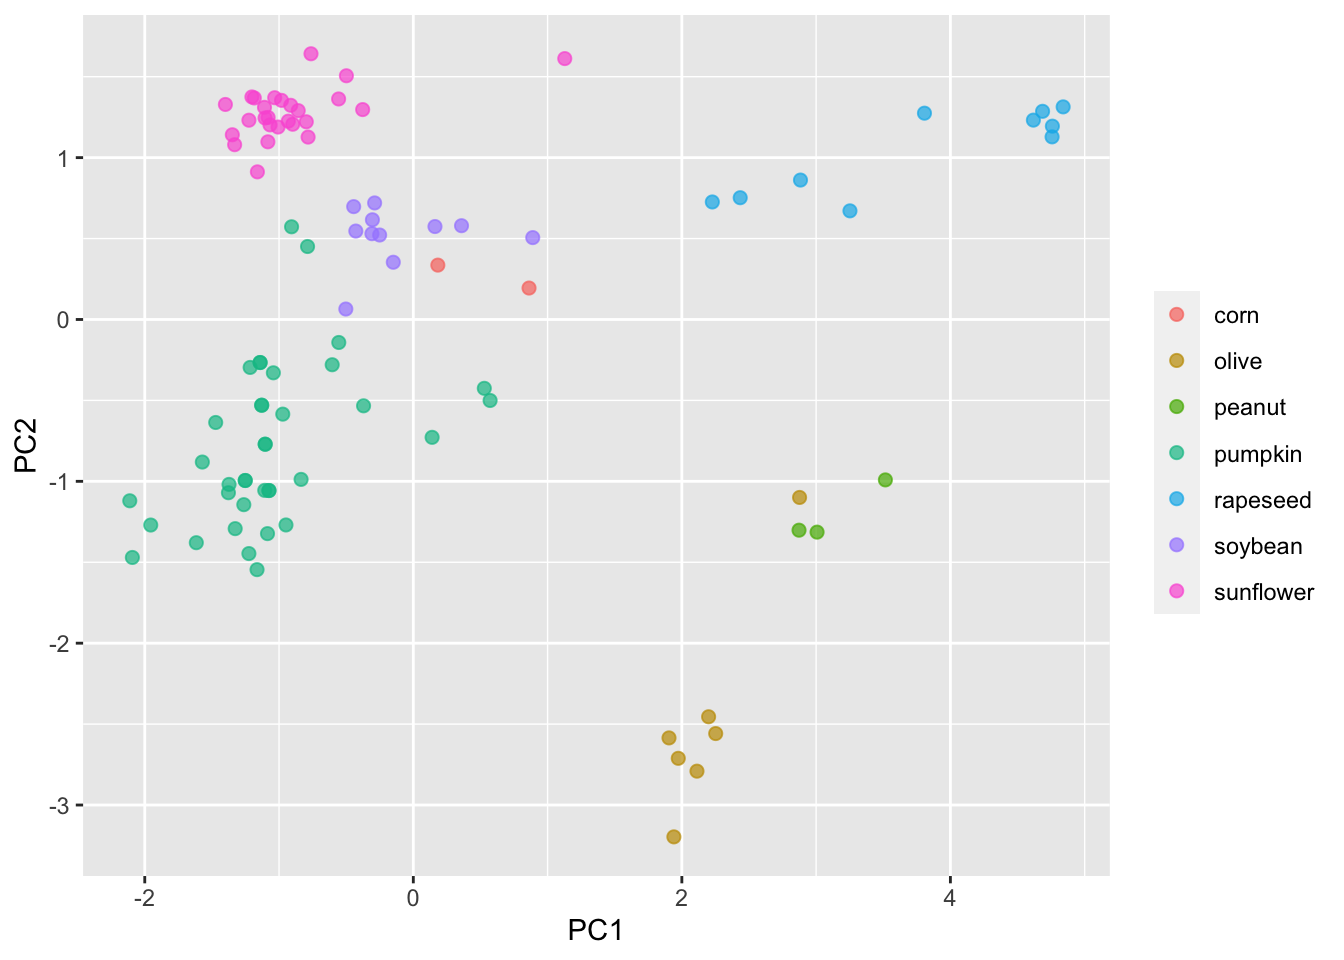
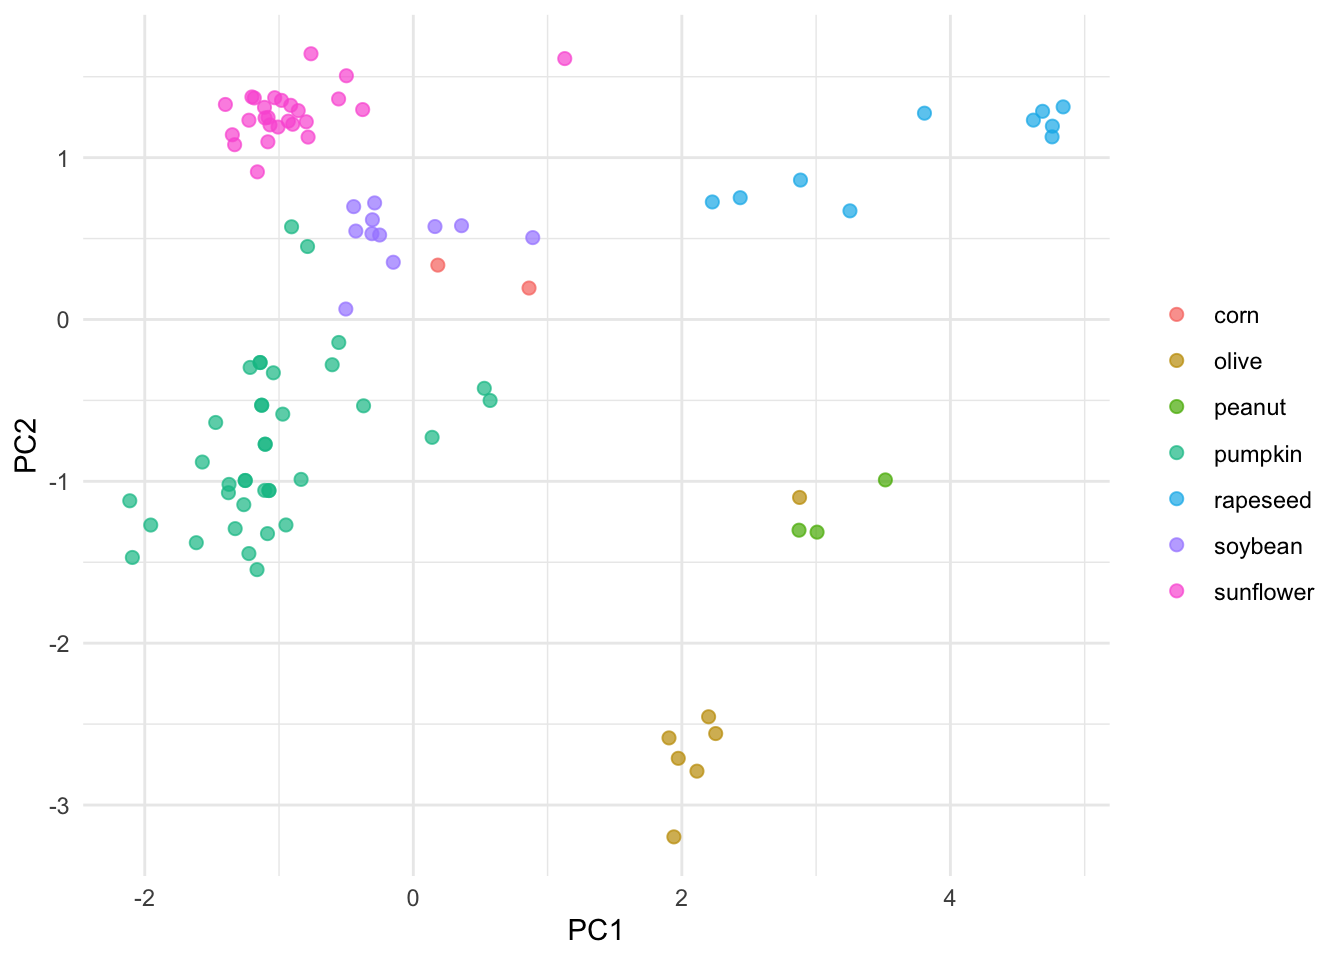
theme_minimal

diff --git a/public/2021-02-04-unsupervised-machine-learning/index.html b/public/2021-02-04-unsupervised-machine-learning/index.html
@@ -693,7 +693,7 @@
 
 <div class="article-header article-container featured-image-wrapper mt-4 mb-4" style="max-width: 720px; max-height: 425px;">
   <div style="position: relative">
-    <img src="../2021-02-04-unsupervised-machine-learning/featured_hud3f906394e33c42b903908d2e33c2bfb_229456_720x0_resize_q90_lanczos.jpg" alt="" class="featured-image">
+    <img src="../2021-02-04-unsupervised-machine-learning/featured_hud3f906394e33c42b903908d2e33c2bfb_221643_720x0_resize_q90_lanczos.jpg" alt="" class="featured-image">
     <span class="article-header-caption">Fatty acids content in vegetable oils</span>
   </div>
 </div>
@@ -784,17 +784,17 @@ library(embed)</code></pre>
 <p>We can see that PC componennt for each class of oil were added in a <code>prcomp</code> object.</p>
 <p>And we could plot those component with <code>autoplot</code></p>
 <pre class="r"><code>autoplot(pca_res, data = oils, colour = &quot;class&quot;) +
-  labs(color = NULL)</code></pre>
+  labs(color = NULL) +theme_minimal()</code></pre>
 <p><img src="../2021-02-04-unsupervised-machine-learning/index_files/figure-html/unnamed-chunk-7-1.png" width="672" />
 We can see that this PCA separates olive oil far away from the other 7 types of oils. It also looks like one of the olive oils is closer to peanunt type of oil in the PCA space .</p>
 </div>
 <div id="pca-in-tidymodels" class="section level1">
 <h1>PCA in Tidymodels</h1>
-<p>Modeling is very much like cooking, and in the Tidymodels universe the language is reflects this very well 👨🍳. There are three things that we will need to do:</p>
+<p>Modeling is very much like cooking, and in the Tidymodels universe the language is reflects this very well 👩🍳. There are three things that we will need to do:</p>
 <ul>
-<li>Writing down a recipe 👩🍳</li>
+<li>Writing down a recipe 👨🍳</li>
 <li>Preparing that recipe 🍝</li>
-<li>Juicing the recipe ☕</li>
+<li>Juicing the recipe 🥛</li>
 </ul>
 <div id="writing-down-a-recipe" class="section level2">
 <h2>Writing down a recipe</h2>
@@ -865,7 +865,7 @@ pca_juiced</code></pre>
 <pre class="r"><code>pca_juiced %&gt;%
   ggplot(aes(PC1, PC2, label = class)) +
   geom_point(aes(color = class), alpha = 0.7, size = 2) +
-  labs(color = NULL)</code></pre>
+  labs(color = NULL) +theme_minimal()</code></pre>
 <p><img src="../2021-02-04-unsupervised-machine-learning/index_files/figure-html/unnamed-chunk-12-1.png" width="672" /></p>
 <p>The initial PCA and this one generated with Tidymodels look very similar. Note that autoplot adds some information to the plot such as providing PCs percentage. So what’s the point of using Tidymodels if is a such a long series of steps compared to base R? Well, <a href="https://www.tidymodels.org/">Tidymodels</a> integrates a lot of modular packages which facilitates creating and evaluating different models.</p>
 </div>
@@ -883,15 +883,12 @@ pca_juiced</code></pre>
   ggplot(aes(umap_1, umap_2, label = class)) +
   geom_point(aes(color = class), alpha = 0.7, size = 2) +
   labs(color = NULL)</code></pre>
-<div class="figure">
-<img src="featured2.jpg" alt="" />
-<p class="caption">UMAP representation of market vegatable oils</p>
-</div>
+<p><img src="featured2.jpg" /></p>
 <p>This model separates the data in the space somewhat differently to PCA. PCA and UMAP are fundamentally different in that PCA is a linear dimensionality reduction algorithm whereas UMAP is non-linear. Moreover, there are few important parameters that can impact how the UMAP representation looks like. This is nicely explained in the README of umapr package from the <a href="https://github.com/ropenscilabs/umapr">ropenscilabs</a>. You can see additional arguments offered by <code>step_umap</code> with <code>?step_umap</code>. Also note that we have trained our models with a tiny set of data (we have not done resampling) and we have not evaluated their performance.</p>
 </div>
 <div id="conclusionss" class="section level1">
 <h1>Conclusionss</h1>
-<p>The data processing for doing unsupervised machine learning with Tidymodels are very similar to base R. Linear and non-linear dimensionality reduction algorithms separate the data in the reduced space differently. Resampling and model evaluation could help to better understand how these models perform.</p>
+<p>The data processing for doing unsupervised machine learning with Tidymodels are very similar to base R. Linear and non-linear dimensionality reduction algorithms separate the data in the reduced space differently.</p>
 </div>
 
     </div>

diff --git a/content/post/2021-02-04-PCA_UMAP_tidymodels/index.html b/content/post/2021-02-04-PCA_UMAP_tidymodels/index.html
@@ -113,17 +113,17 @@ library(embed)</code></pre>
 <p>We can see that PC componennt for each class of oil were added in a <code>prcomp</code> object.</p>
 <p>And we could plot those component with <code>autoplot</code></p>
 <pre class="r"><code>autoplot(pca_res, data = oils, colour = &quot;class&quot;) +
-  labs(color = NULL)</code></pre>
+  labs(color = NULL) +theme_minimal()</code></pre>
 <p><img src="{{< blogdown/postref >}}index_files/figure-html/unnamed-chunk-7-1.png" width="672" />
 We can see that this PCA separates olive oil far away from the other 7 types of oils. It also looks like one of the olive oils is closer to peanunt type of oil in the PCA space .</p>
 </div>
 <div id="pca-in-tidymodels" class="section level1">
 <h1>PCA in Tidymodels</h1>
-<p>Modeling is very much like cooking, and in the Tidymodels universe the language is reflects this very well 👨🍳. There are three things that we will need to do:</p>
+<p>Modeling is very much like cooking, and in the Tidymodels universe the language is reflects this very well 👩🍳. There are three things that we will need to do:</p>
 <ul>
-<li>Writing down a recipe 👩🍳</li>
+<li>Writing down a recipe 👨🍳</li>
 <li>Preparing that recipe 🍝</li>
-<li>Juicing the recipe ☕</li>
+<li>Juicing the recipe 🥛</li>
 </ul>
 <div id="writing-down-a-recipe" class="section level2">
 <h2>Writing down a recipe</h2>
@@ -194,7 +194,7 @@ pca_juiced</code></pre>
 <pre class="r"><code>pca_juiced %&gt;%
   ggplot(aes(PC1, PC2, label = class)) +
   geom_point(aes(color = class), alpha = 0.7, size = 2) +
-  labs(color = NULL)</code></pre>
+  labs(color = NULL) +theme_minimal()</code></pre>
 <p><img src="{{< blogdown/postref >}}index_files/figure-html/unnamed-chunk-12-1.png" width="672" /></p>
 <p>The initial PCA and this one generated with Tidymodels look very similar. Note that autoplot adds some information to the plot such as providing PCs percentage. So what’s the point of using Tidymodels if is a such a long series of steps compared to base R? Well, <a href="https://www.tidymodels.org/">Tidymodels</a> integrates a lot of modular packages which facilitates creating and evaluating different models.</p>
 </div>
@@ -212,13 +212,10 @@ pca_juiced</code></pre>
   ggplot(aes(umap_1, umap_2, label = class)) +
   geom_point(aes(color = class), alpha = 0.7, size = 2) +
   labs(color = NULL)</code></pre>
-<div class="figure">
-<img src="featured2.jpg" alt="" />
-<p class="caption">UMAP representation of market vegatable oils</p>
-</div>
+<p><img src="featured2.jpg" /></p>
 <p>This model separates the data in the space somewhat differently to PCA. PCA and UMAP are fundamentally different in that PCA is a linear dimensionality reduction algorithm whereas UMAP is non-linear. Moreover, there are few important parameters that can impact how the UMAP representation looks like. This is nicely explained in the README of umapr package from the <a href="https://github.com/ropenscilabs/umapr">ropenscilabs</a>. You can see additional arguments offered by <code>step_umap</code> with <code>?step_umap</code>. Also note that we have trained our models with a tiny set of data (we have not done resampling) and we have not evaluated their performance.</p>
 </div>
 <div id="conclusionss" class="section level1">
 <h1>Conclusionss</h1>
-<p>The data processing for doing unsupervised machine learning with Tidymodels are very similar to base R. Linear and non-linear dimensionality reduction algorithms separate the data in the reduced space differently. Resampling and model evaluation could help to better understand how these models perform.</p>
+<p>The data processing for doing unsupervised machine learning with Tidymodels are very similar to base R. Linear and non-linear dimensionality reduction algorithms separate the data in the reduced space differently.</p>
 </div>

diff --git a/public/post/index.html b/public/post/index.html
@@ -599,7 +599,7 @@
   
   
   <a href="../2021-02-04-unsupervised-machine-learning/">
-      <img src="../2021-02-04-unsupervised-machine-learning/featured_hud3f906394e33c42b903908d2e33c2bfb_229456_918x517_fill_q90_lanczos_center.jpg" class="article-banner" alt="">
+      <img src="../2021-02-04-unsupervised-machine-learning/featured_hud3f906394e33c42b903908d2e33c2bfb_221643_918x517_fill_q90_lanczos_center.jpg" class="article-banner" alt="">
   </a>
   
 

diff --git a/public/index.html b/public/index.html
@@ -1507,7 +1507,7 @@
     
     
     <a href="./2021-02-04-unsupervised-machine-learning/" >
-      <img src="./2021-02-04-unsupervised-machine-learning/featured_hud3f906394e33c42b903908d2e33c2bfb_229456_150x0_resize_q90_lanczos.jpg" alt="">
+      <img src="./2021-02-04-unsupervised-machine-learning/featured_hud3f906394e33c42b903908d2e33c2bfb_221643_150x0_resize_q90_lanczos.jpg" alt="">
     </a>
     
   </div>
